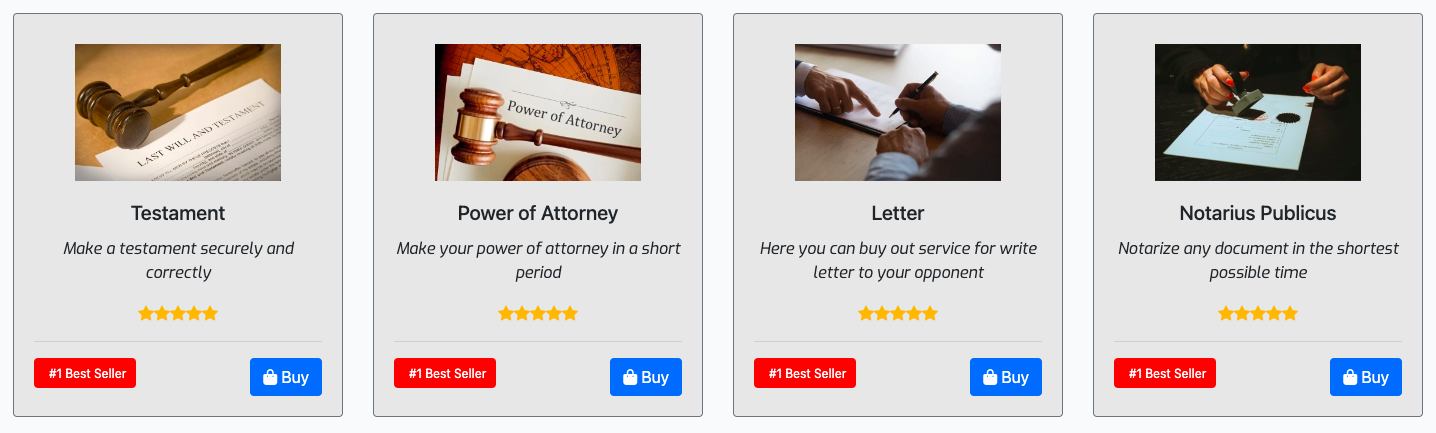
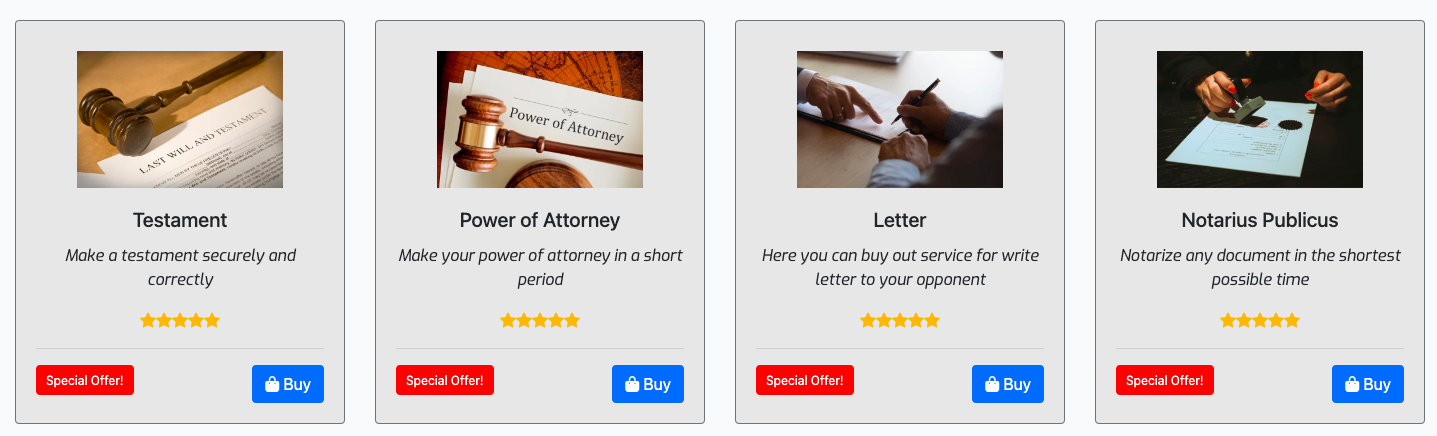
edit bag quantity bug

diff --git a/services/templates/services/includes/quantity_input_script.html b/services/templates/services/includes/quantity_input_script.html
@@ -2,11 +2,11 @@
 
     // Disable +/- buttons outside 1-99 range
     function handleEnableDisable(itemId) {
-        var currentValue = parseInt($(`#id_qty_${itemId}`).val());
+        var currentValue = parseInt($(`.id_qty_${itemId}`).val());
         var minusDisabled = currentValue < 2;
         var plusDisabled = currentValue > 98;
-        $(`#decrement-qty_${itemId}`).prop('disabled', minusDisabled);
-        $(`#increment-qty_${itemId}`).prop('disabled', plusDisabled);
+        $(`.decrement-qty_${itemId}`).prop('disabled', minusDisabled);
+        $(`.increment-qty_${itemId}`).prop('disabled', plusDisabled);
     }
 
     // Ensure proper enabling/disabling of all inputs on page load
@@ -25,20 +25,22 @@
     // Increment quantity
     $('.increment-qty').click(function(e) {
        e.preventDefault();
-       var closestInput = $(this).closest('.input-group').find('.qty_input')[0];
-       var currentValue = parseInt($(closestInput).val());
-       $(closestInput).val(currentValue + 1);
        var itemId = $(this).data('item_id');
+       var closestInput = $(this).closest('.input-group').find('.qty_input')[0];
+       var allInputs = $(`.input-group-${itemId} input`);
+       var currentValue = parseInt($(closestInput).val());
+       $(allInputs).val(currentValue + 1);
        handleEnableDisable(itemId);
     });
 
     // Decrement quantity
     $('.decrement-qty').click(function(e) {
        e.preventDefault();
-       var closestInput = $(this).closest('.input-group').find('.qty_input')[0];
-       var currentValue = parseInt($(closestInput).val());
-       $(closestInput).val(currentValue - 1);
        var itemId = $(this).data('item_id');
+       var closestInput = $(this).closest('.input-group').find('.qty_input')[0];
+       var allInputs = $(`.input-group-${itemId} input`);
+       var currentValue = parseInt($(closestInput).val());
+       $(allInputs).val(currentValue - 1);
        handleEnableDisable(itemId);
     });
 </script>

diff --git a/bag/templates/bag/quantity-form.html b/bag/templates/bag/quantity-form.html
@@ -1,22 +1,20 @@
 <form class="form update-form" method="POST" action="{% url 'adjust_bag' item.item_id %}">
     {% csrf_token %}
     <div class="form-group">
-        <div class="input-group">
+        <div class="input-group input-group-{{ item.item_id }}">
             <div class="input-group-prepend">
-                <button class="decrement-qty btn btn-sm btn-black rounded-0" 
-                    data-item_id="{{ item.item_id }}" id="decrement-qty_{{ item.item_id }}">
+                <button class="decrement-qty btn btn-sm btn-black rounded-0 decrement-qty_{{ item.item_id }}" 
+                    data-item_id="{{ item.item_id }}">
                     <span>
                         <i class="fas fa-minus fa-sm"></i>
                     </span>
                 </button>
             </div>
-            <input class="form-control form-control-sm qty_input" type="number"
-                name="quantity" value="{{ item.quantity }}" min="1" max="99"
-                data-item_id="{{ item.item_id }}"
-                id="id_qty_{{ item.item_id }}">
+            <input class="form-control form-control-sm qty_input id_qty_{{ item.item_id }}" type="number" name="quantity" value="{{ item.quantity }}" min="1" max="99"
+                data-item_id="{{ item.item_id }}">
             <div class="input-group-append">
-                <button class="increment-qty btn btn-sm btn-black rounded-0"
-                    data-item_id="{{ item.item_id }}" id="increment-qty_{{ item.item_id }}">
+                <button class="increment-qty btn btn-sm btn-black rounded-0 increment-qty_{{ item.item_id }}"
+                    data-item_id="{{ item.item_id }}">
                     <span>
                         <i class="fas fa-plus fa-sm"></i>
                     </span>

diff --git a/services/templates/services/product_detail.html b/services/templates/services/product_detail.html
@@ -50,20 +50,20 @@
             <div class="col-12">
               <p class="mt-3"><strong>Quantity:</strong></p>
               <div class="form-group w-50">
-                <div class="input-group">
+                <div class="input-group input-group-{{ product.id }}">
                   <div class="input-group-prepend">
-                    <button class="decrement-qty btn btn-black rounded-0" data-item_id="{{ product.id }}"
-                      id="decrement-qty_{{ product.id }}">
+                    <button class="decrement-qty btn btn-black rounded-0 decrement-qty_{{ product.id }}" 
+                                                data-item_id="{{ product.id }}">
                       <span class="icon">
                         <i class="fas fa-minus"></i>
                       </span>
                     </button>
                   </div>
-                  <input class="form-control qty_input" type="number" name="quantity" value="1" min="1" max="99"
-                    data-item_id="{{ product.id }}" id="id_qty_{{ product.id }}">
+                  <input class="form-control qty_input id_qty_{{ product.id }}" type="number" name="quantity" value="1" min="1" max="99"
+                  data-item_id="{{ product.id }}">
                   <div class="input-group-append">
-                    <button class="increment-qty btn btn-black rounded-0" data-item_id="{{ product.id }}"
-                      id="increment-qty_{{ product.id }}">
+                    <button class="increment-qty btn btn-black rounded-0 increment-qty_{{ product.id }}"
+                                                data-item_id="{{ product.id }}">
                       <span class="icon">
                         <i class="fas fa-plus"></i>
                       </span>

diff --git a/home/templates/home/index.html b/home/templates/home/index.html
@@ -45,8 +45,8 @@
           <p class="card-text"> <em> {{ product.summary }}</em></p>
           <i class="bi bi-star-fill"></i><i class="bi bi-star-fill"></i><i class="bi bi-star-fill"></i><i class="bi bi-star-fill"></i><i class="bi bi-star-fill"></i>
           <hr>
-          <div class="highlight float-left">
-            #1 Best Seller
+          <div class="special-offer float-left">
+            Special Offer! 
           </div>
           <a href="{% url 'product_detail' product.url %}" class="btn btn-primary float-right"> <i
               class="fa-sharp fa-solid fa-bag-shopping"></i> Buy</a>

diff --git a/static/css/main.css b/static/css/main.css
@@ -37,11 +37,11 @@ footer {
     right: 0;
 }
 
-.highlight {
+.special-offer {
 	display: inline-block;
 	color: #fff;
 	line-height: 2em;
-	padding: 2px 10px 2px 15px;
+	padding: 2px 10px 2px 10px;
 	border-radius: 4px;
     background: red;
     font-size: 13px;

diff --git a/bag/templates/bag/bag.html b/bag/templates/bag/bag.html
@@ -127,6 +127,7 @@
 {% include 'services/includes/quantity_input_script.html' %}
 
 <script type="text/javascript">
+    
     // Update quantity on click
     $('.update-link').click(function(e) {
         var form = $(this).prev('.update-form');
